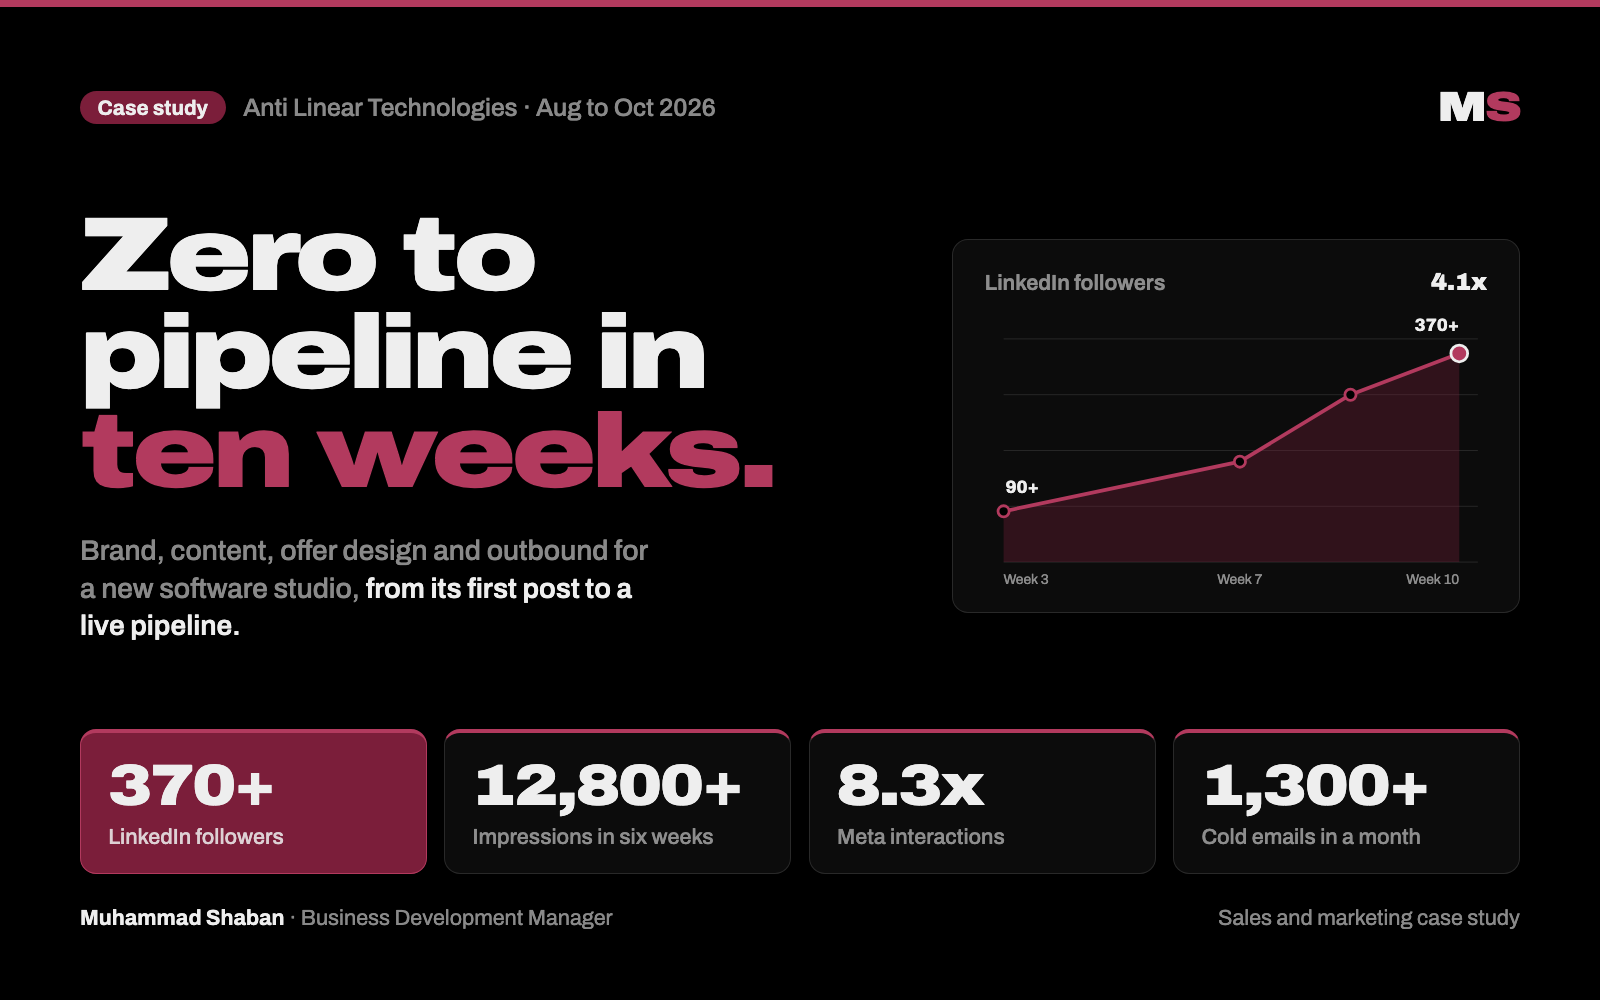
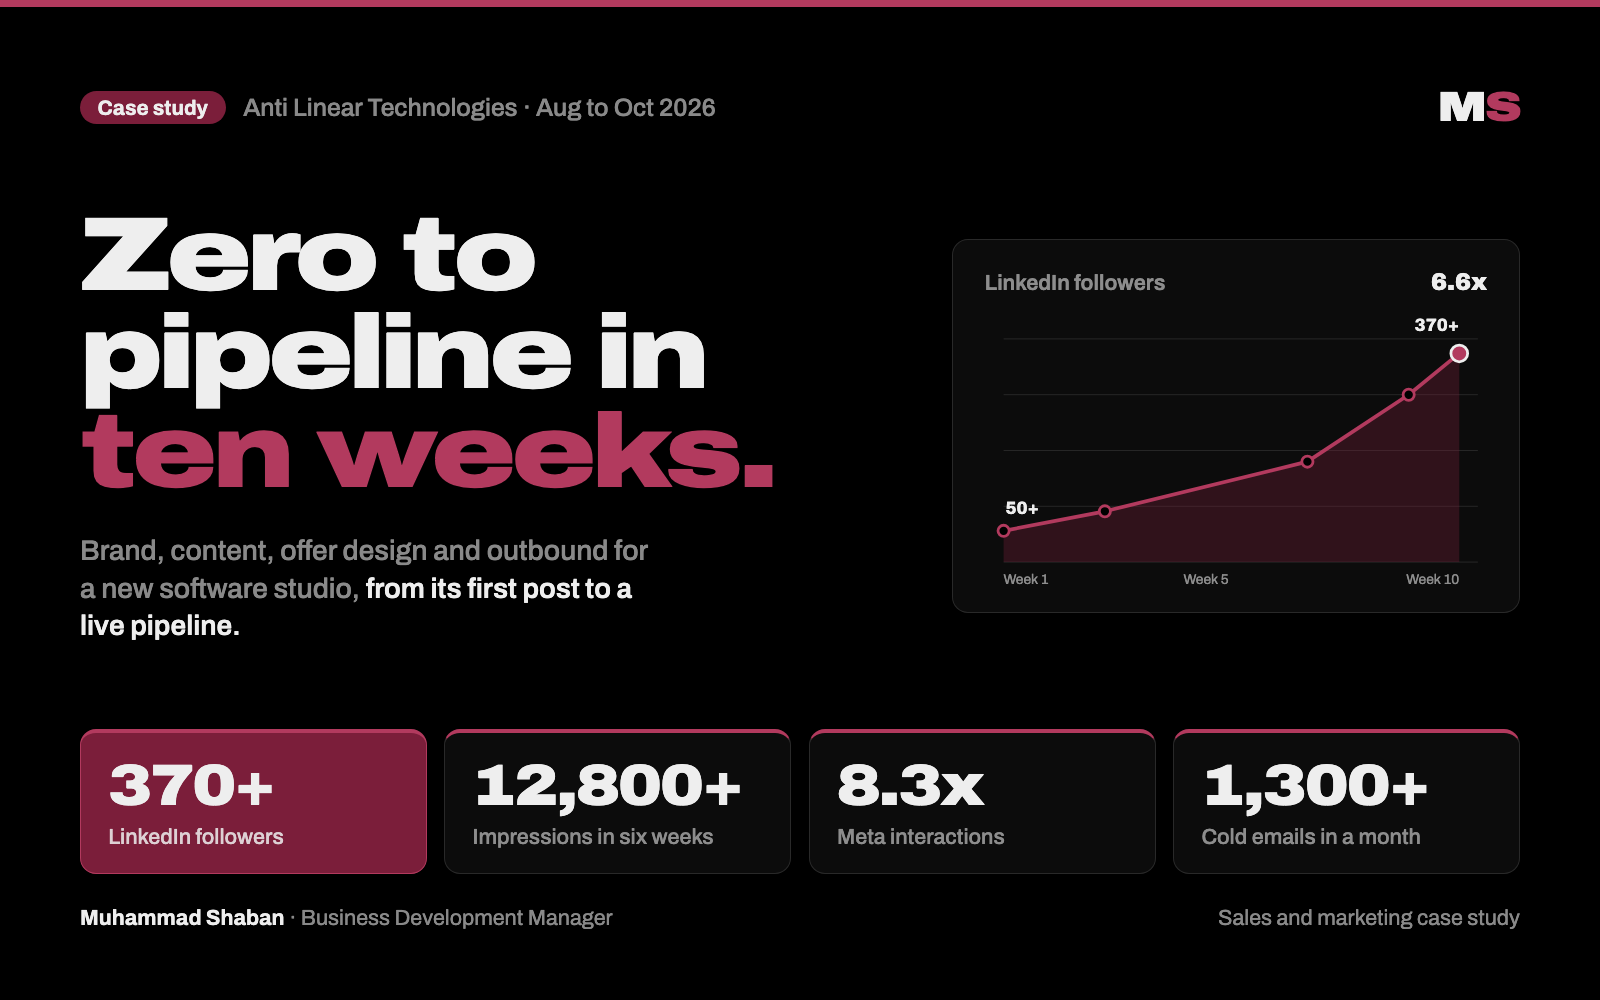
Add week 1 LinkedIn figures to the ALT case study
Week 1: 56 followers and 129 impressions, shown as 50+ and 120+. The
follower charts, replay and thumbnails now start at week 1, and follower
growth reads 6.6x (week 1 to the live page) instead of 4.1x.

Changed region(s): [[0.625, 0.341, 0.9062, 0.527], [0.75, 0.558, 0.7812, 0.589]]

diff --git a/alt-case-study/index.html b/alt-case-study/index.html
@@ -443,7 +443,7 @@ footer p{max-width:70ch}
   <div class="ticker-track">
     <ul>
       <li><b>370+</b><span>LinkedIn followers</span></li>
-      <li><b>4.1x</b><span>follower growth</span></li>
+      <li><b>6.6x</b><span>follower growth</span></li>
       <li><b>12,800+</b><span>impressions in six weeks</span></li>
       <li><b>8.3x</b><span>Meta interactions</span></li>
       <li><b>1,300+</b><span>cold emails in a month</span></li>
@@ -453,7 +453,7 @@ footer p{max-width:70ch}
     </ul>
     <ul aria-hidden="true">
       <li><b>370+</b><span>LinkedIn followers</span></li>
-      <li><b>4.1x</b><span>follower growth</span></li>
+      <li><b>6.6x</b><span>follower growth</span></li>
       <li><b>12,800+</b><span>impressions in six weeks</span></li>
       <li><b>8.3x</b><span>Meta interactions</span></li>
       <li><b>1,300+</b><span>cold emails in a month</span></li>
@@ -488,7 +488,7 @@ footer p{max-width:70ch}
       </div>
       <ul class="zero sec-body" id="zero">
         <li><button class="flip" type="button" aria-pressed="false" style="--i:0">
-          <span class="face front"><span class="x" aria-hidden="true">0</span><b>No audience</b><span>The company page published its first post in Aug 2026.</span><small>Aug 2026</small></span>
+          <span class="face front"><span class="x" aria-hidden="true">0</span><b>No real audience</b><span>50+ followers and 120+ impressions in the first week.</span><small>Aug 2026</small></span>
           <span class="face back"><b class="big">370+</b><span>LinkedIn followers on the live page, after 12,800+ impressions in the first six weeks.</span><small>October 2026</small></span>
         </button></li>
         <li><button class="flip" type="button" aria-pressed="false" style="--i:1">
@@ -542,7 +542,7 @@ footer p{max-width:70ch}
 <section id="growth">
   <div class="wrap">
     <p class="kicker">LinkedIn growth</p>
-    <h2 class="sec-title" data-reveal>90+ to 370+ followers in eight weeks.</h2>
+    <h2 class="sec-title" data-reveal>50+ to 370+ followers in ten weeks.</h2>
     <p class="sec-lead" data-reveal>Impressions grew by 2,000+ every week for four straight weeks. Followers then doubled again in under four weeks after the last weekly report.</p>
 
     <div class="split sec-body">
@@ -559,7 +559,7 @@ footer p{max-width:70ch}
         <p class="chart-foot" id="liFoot"></p>
       </div>
       <dl class="stack" data-stagger>
-        <div class="card mini" data-tilt><dt data-count="4.1" data-dec="1" data-suf="x">4.1x</dt><dd>Follower growth, <strong>90+ to 370+</strong>, Aug to October 2026</dd></div>
+        <div class="card mini" data-tilt><dt data-count="6.6" data-dec="1" data-suf="x">6.6x</dt><dd>Follower growth, <strong>50+ to 370+</strong>, Aug to October 2026</dd></div>
         <div class="card mini" data-tilt><dt data-count="110" data-pre="+" data-suf="%">+110%</dt><dd>Page visitors in four weeks, <strong>170+ to 360+</strong></dd></div>
         <div class="card mini" data-tilt><dt data-count="2000" data-suf="+">2,000+</dt><dd>New impressions a week, every week from week 3 to week 7</dd></div>
         <div class="card mini" data-tilt><dt data-count="2" data-suf="x">2x</dt><dd>Followers in under four weeks after the last report, <strong>180+ to 370+</strong></dd></div>
@@ -907,22 +907,22 @@ footer p{max-width:70ch}
   var LAST=9;
   function monthOf(w){return w<=3?'August':w<=7?'September':'October'}
   var SERIES={
-    followers:[[3,91],[7,180],[9,300],[10,374]],
-    impressions:[[3,3982],[4,6167],[5,8330],[6,10362],[7,12843]],
+    followers:[[1,56],[3,91],[7,180],[9,300],[10,374]],
+    impressions:[[1,129],[3,3982],[4,6167],[5,8330],[6,10362],[7,12843]],
     meta:[[3,171],[4,387],[5,788],[6,1151],[7,1420]],
     emails:[[5,374],[6,374],[7,605]]
   };
   var EVENTS=[
-    ['Launch','First post on the company page','The studio starts from zero: no audience, no packaged offer, no outbound motion.'],
-    ['Content','Posting before the first report','Posts keep going out on the company page. The first weekly report lands in week 3.'],
-    ['Report','First report: 90+ followers','3,900+ impressions and 170+ page visitors. The top post by likes goes out: "You\'ve grown revenue 3x." Meta tracking starts at 30+ followers and 170+ interactions.'],
+    ['Launch','First post on the company page','The page starts the week at 50+ followers and 120+ impressions, with no packaged offer and no outbound motion.'],
+    ['Content','Posting between reports','Posts keep going out on the company page. The next figures on record come in week 3.'],
+    ['Report','90+ followers','3,900+ impressions and 170+ page visitors. The top post by likes goes out: "You\'ve grown revenue 3x." Meta tracking starts at 30+ followers and 170+ interactions.'],
     ['Report','2,100+ impressions in a week','LinkedIn passes 6,100 impressions. A Friday Meta post reaches 1,100+ views.'],
     ['Outbound','370+ cold emails in a week','The first motion reel reaches 790+ views. Meta 30-day page visits jump from 60+ to 1,100+.'],
     ['Report','13,000+ Meta views in 30 days','Another 370+ cold emails go out. LinkedIn passes 10,000 impressions.'],
     ['Pipeline','2 C-level meetings, 2 proposals','600+ emails to a 200-lead real estate list, 3 inbound leads from the services page, 12,800+ impressions and 180+ followers.'],
     ['Between reports','No report this week','The weekly reports end in week 7. The next figure on record is the milestone in week 9.'],
     ['Milestone','300+ followers','A founder-style milestone post, amplified by team reposts.'],
-    ['Live','370+ followers on the live page','4.1x the first report. Followers doubled in under four weeks after the last weekly report.']
+    ['Live','370+ followers on the live page','6.6x the first week. Followers doubled in under four weeks after the last weekly report.']
   ];
 
   var range=$('#rpRange'),fill=$('#rpFill'),rail=$('#rpRail'),months=$('#rpMonths'),play=$('#rpPlay'),icon=$('#rpIcon');
@@ -1081,12 +1081,12 @@ footer p{max-width:70ch}
   }
 
   var LI={
-    followers:{title:'Followers',sub:'Company page, weeks 3 to 10, August to October 2026',foot:'Live count in October 2026, verified on the public page. Week 9 is the 300-followers milestone post.',
-      pts:[[3,91,'first weekly report'],[7,180,'last weekly report'],[9,300,'milestone post'],[10,374,'live page']],annot:{i:2,text:'300+ milestone'}},
-    impressions:{title:'Impressions, cumulative',sub:'Weeks 3 to 7, August and September 2026',foot:'2,000+ new impressions every week. 12,800+ by week 7.',
-      pts:[[3,3982,'first weekly report'],[4,6167,'+2,100'],[5,8330,'+2,100'],[6,10362,'+2,000'],[7,12843,'+2,400']]},
+    followers:{title:'Followers',sub:'Company page, weeks 1 to 10, August to October 2026',foot:'Live count in October 2026, verified on the public page. Week 9 is the 300-followers milestone post.',
+      pts:[[1,56,'first week'],[3,91,'weekly report'],[7,180,'last weekly report'],[9,300,'milestone post'],[10,374,'live page']],annot:{i:3,text:'300+ milestone'}},
+    impressions:{title:'Impressions, cumulative',sub:'Weeks 1 to 7, August and September 2026',foot:'120+ in week 1, then 2,000+ new impressions every week from week 3 to week 7. 12,800+ by week 7.',
+      pts:[[1,129,'first week'],[3,3982,'weekly report'],[4,6167,'+2,100'],[5,8330,'+2,100'],[6,10362,'+2,000'],[7,12843,'+2,400']]},
     visitors:{title:'Page visitors, cumulative',sub:'Weeks 3 to 7, August and September 2026',foot:'Page visitors more than doubled in four weeks, 170+ to 360+.',
-      pts:[[3,172,'first weekly report'],[4,220],[5,306],[6,345],[7,361]]}
+      pts:[[3,172,'weekly report'],[4,220],[5,306],[6,345],[7,361]]}
   };
   var META={
     interactions:{title:'Interactions, cumulative',sub:'Weeks 3 to 7, August and September 2026',foot:'170+ to 1,400+: 8.3x in four weeks.',

diff --git a/index.html b/index.html
@@ -446,7 +446,7 @@ footer .wrap{display:flex;justify-content:space-between;gap:1rem;flex-wrap:wrap;
     </div>
     <div class="sec-body" data-reveal>
       <a class="card cs" href="/alt-case-study/" data-tilt="2">
-        <div class="cs-media"><img src="/alt-case-study/thumbnail.png" alt="ALT case study: zero to pipeline in ten weeks, with LinkedIn followers rising from 90+ to 370+" width="1600" height="1000" loading="lazy"></div>
+        <div class="cs-media"><img src="/alt-case-study/thumbnail.png" alt="ALT case study: zero to pipeline in ten weeks, with LinkedIn followers rising from 50+ to 370+" width="1600" height="1000" loading="lazy"></div>
         <div class="cs-body">
           <div class="cs-meta"><span class="tag">BD Manager</span>Anti Linear Technologies · Aug to Oct 2026</div>
           <h3 class="cs-title">Zero to pipeline in <span class="hi">ten weeks</span>.</h3>
